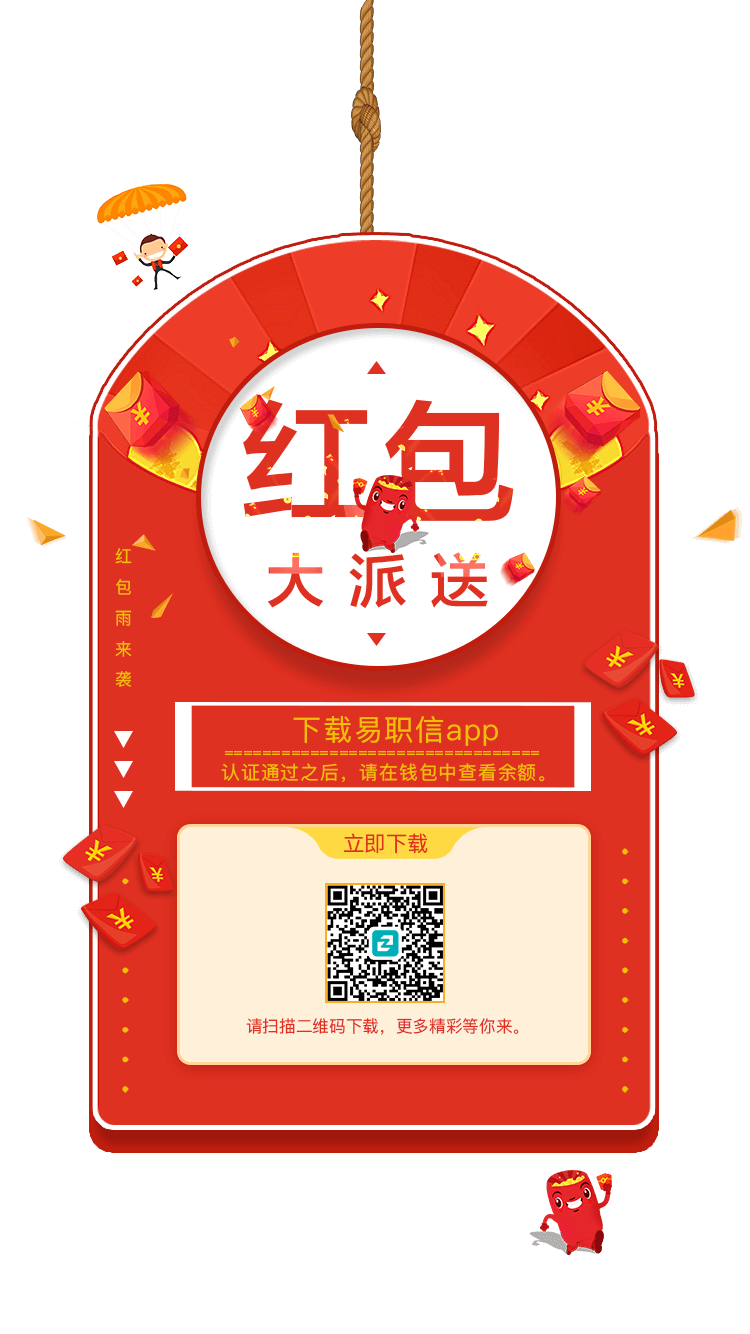
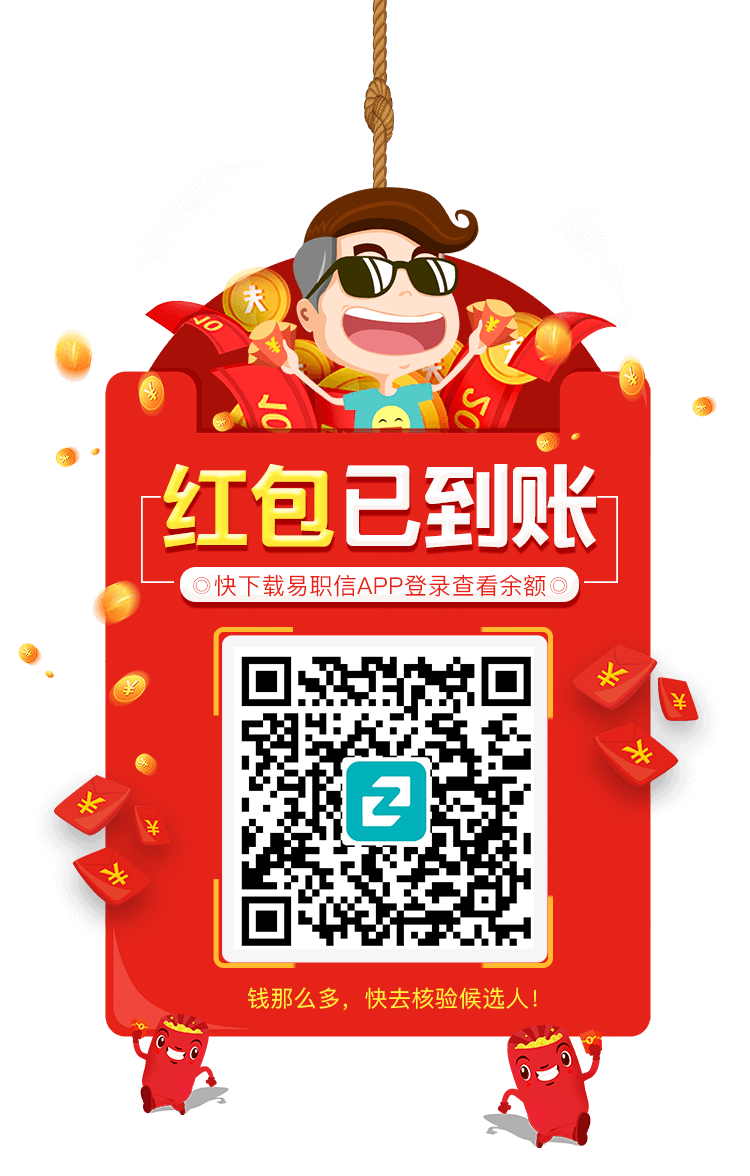
更改文案，弹出红包图片更换

diff --git a/channel/index.html b/channel/index.html
@@ -22,7 +22,10 @@
 <body>
     <div class="wrap">
         <div class="header">
-            <p>易职信（ezhixin.com）是一款致力于“让简历更加真实”的线上职业信息背调工具，隶属于北京风影职信科技有限公司，是国内首款在线实时核验应聘人员职业背景信息的职业信用风控平台。</p>
+            <p>
+                (1)即日起注册认证成功的用户即可获得150元背调红包。 <br>
+                (2)前1000家认证通过的企业每天可获得1次免费核验机会，不限核验类型。
+            </p>
         </div>
         <form id="registry">
             <input id="mobile" type="text" name="resumeMobile" placeholder="请输入手机号" data-attribute="请填写正确的联系方式" onkeyup="value=value.replace(/[^\d]/g,'') " maxlength="11">
